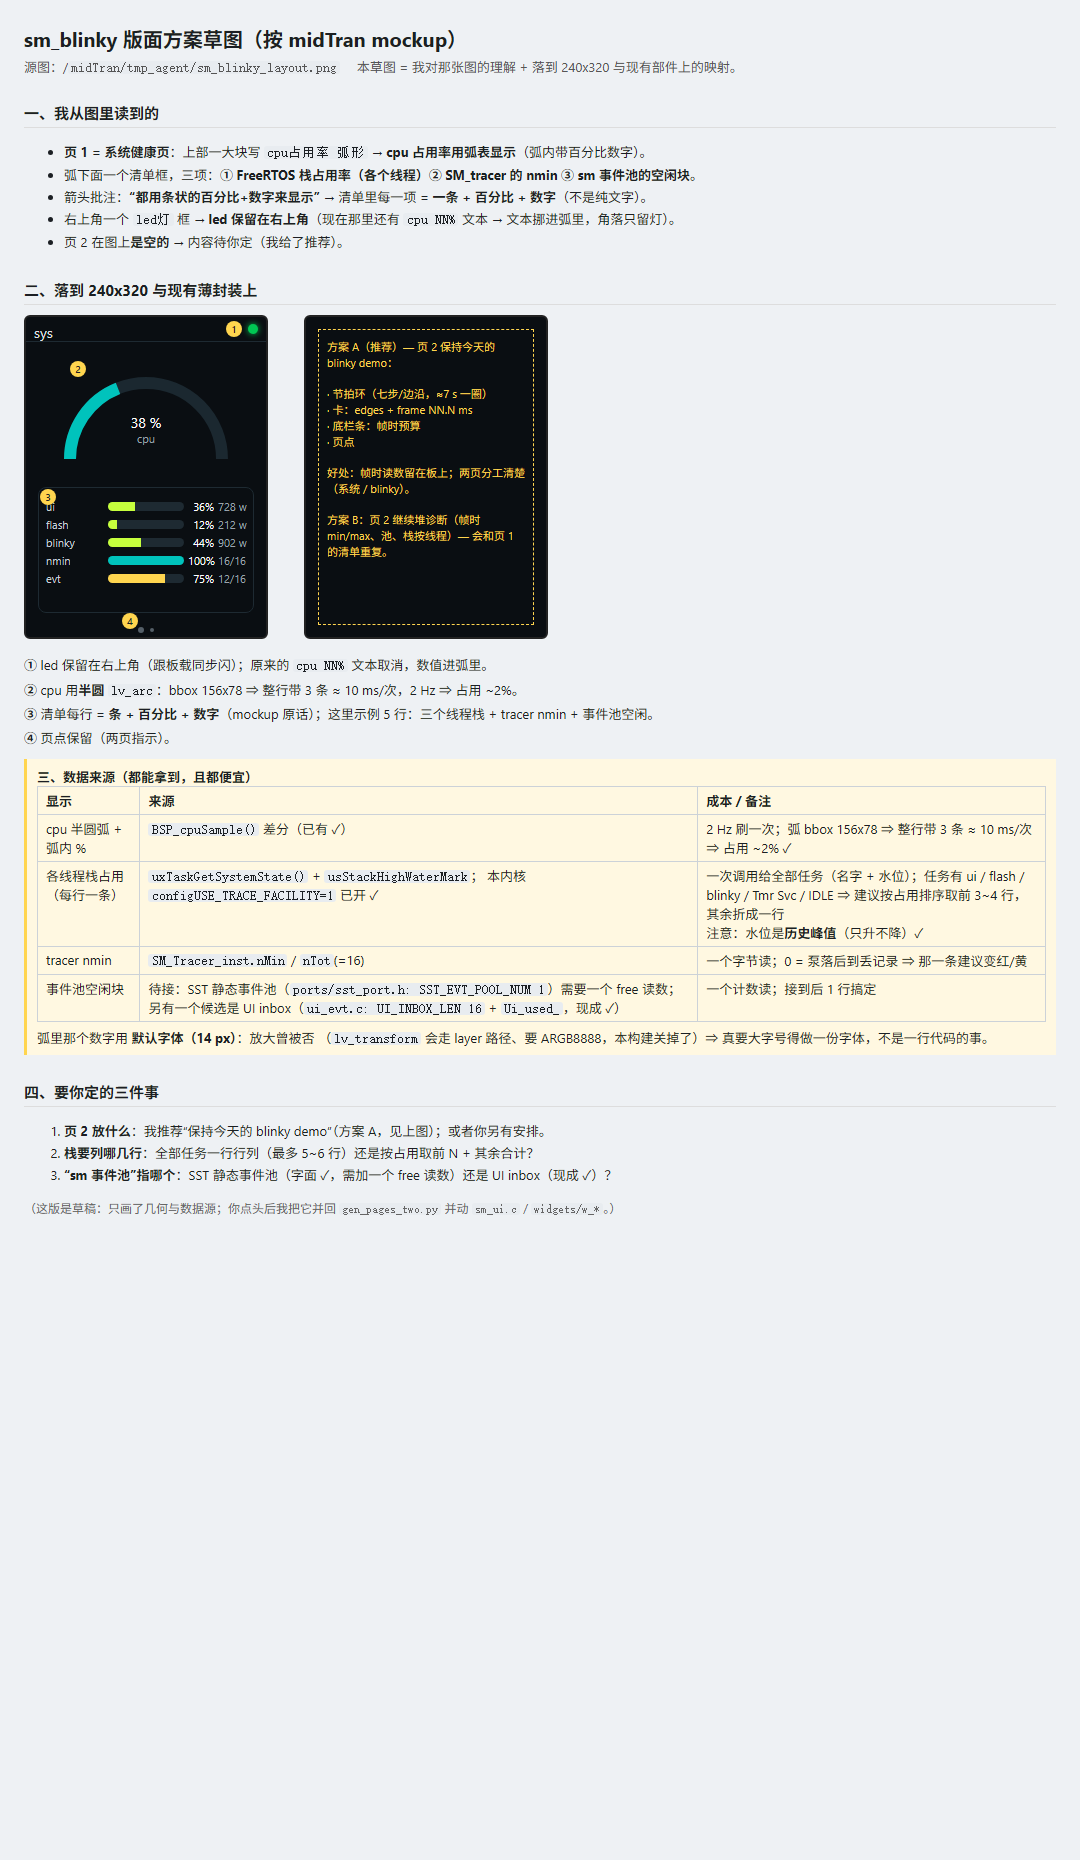
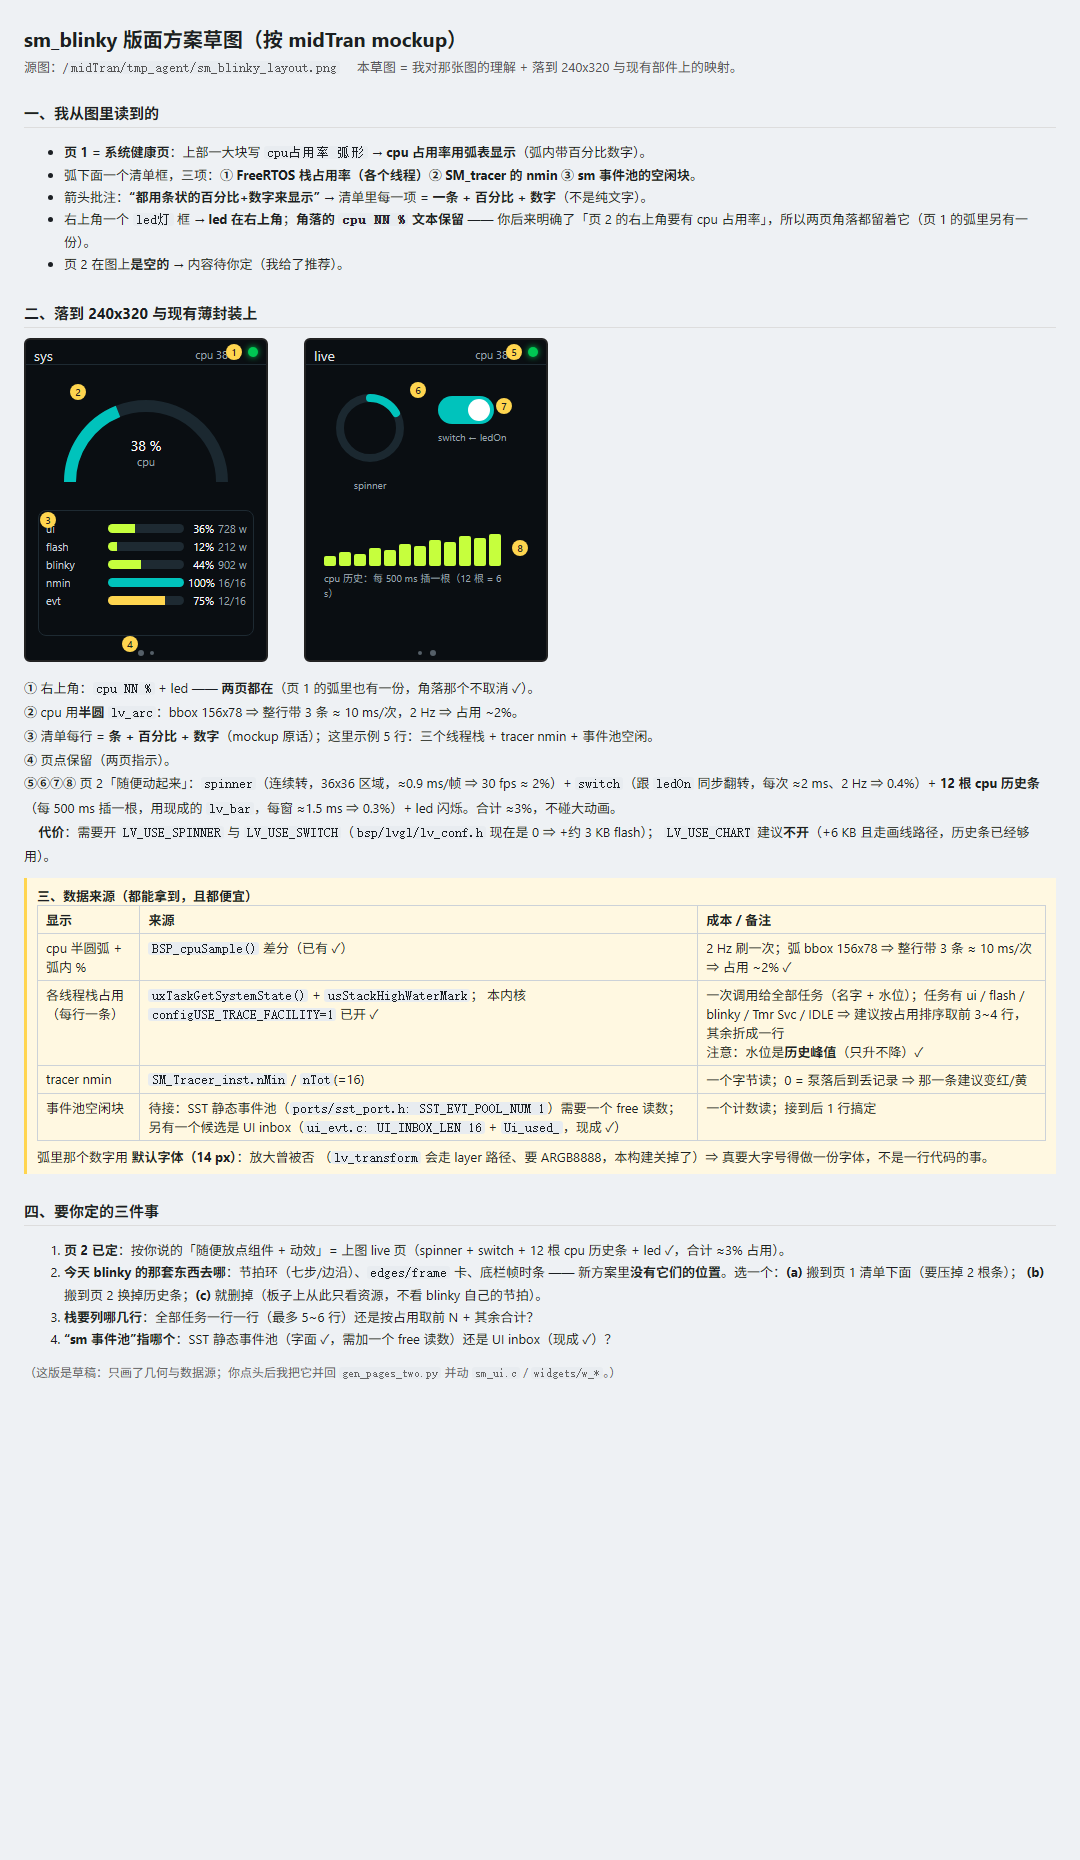
Sketch page 2 as the live page and keep the corner CPU readout on both

diff --git a/docs/diagrams/sketches/layout-next.html b/docs/diagrams/sketches/layout-next.html
@@ -43,17 +43,23 @@ code{background:#e8ecf0;padding:0 3px;border-radius:3px}
 <li><b>页 1 = 系统健康页</b>：上部一大块写 <code>cpu占用率 弧形</code> &rarr; <b>cpu 占用率用弧表显示</b>（弧内带百分比数字）。</li>
 <li>弧下面一个清单框，三项：<b>① FreeRTOS 栈占用率（各个线程）② SM_tracer 的 nmin ③ sm 事件池的空闲块</b>。</li>
 <li>箭头批注：<b>“都用条状的百分比+数字来显示”</b> &rarr; 清单里每一项 = <b>一条 + 百分比 + 数字</b>（不是纯文字）。</li>
-<li>右上角一个 <code>led灯</code> 框 &rarr; <b>led 保留在右上角</b>（现在那里还有 <code>cpu NN%</code> 文本 &rarr; 文本挪进弧里，角落只留灯）。</li>
+<li>右上角一个 <code>led灯</code> 框 &rarr; <b>led 在右上角</b>；<b>角落的 <code>cpu NN %</code> 文本保留</b> —— 你后来明确了「页 2 的右上角要有 cpu 占用率」，所以两页角落都留着它（页 1 的弧里另有一份）。</li>
 <li>页 2 在图上<b>是空的</b> &rarr; 内容待你定（我给了推荐）。</li>
 </ul>
 
 <h2>二、落到 240x320 与现有薄封装上</h2>
-<div class="panels"><div class="panel"><div class="cap">page 1 &middot; 系统健康（新）</div><div style="position:absolute;left:0;top:0;width:240px;height:24px;border-bottom:1px solid #1E2A32"></div><div style="position:absolute;left:8px;top:6px;color:#E0E4E8;font-size:14px">sys</div><div class="led" style="left:222px;top:7px"></div><div class="tagon" style="left:200px;top:4px">1</div><svg width="240" height="130" viewBox="0 0 240 130" style="position:absolute;left:0;top:26px"><path d="M 44.0 116.0 A 76 76 0 0 1 196.0 116.0" stroke="#1B2830" stroke-width="12" fill="none"/><path d="M 44.0 116.0 A 76 76 0 0 1 92.0 45.3" stroke="#00C3BC" stroke-width="12" fill="none"/></svg><div style="position:absolute;left:0;top:96px;width:240px;text-align:center;color:#fff;font-size:14px">38 %</div><div style="position:absolute;left:0;top:114px;width:240px;text-align:center;color:#9AA3AC;font-size:11px">cpu</div><div class="tagon" style="left:44px;top:44px">2</div><div class="solid" style="left:12px;top:170px;width:216px;height:126px"></div><div class="row" style="left:20px;top:180px"><span style="width:58px">ui</span><span class="track" style="width:76px"><span class="fill" style="width:36%;background:#C6FF3D"></span></span><span class="pct">36%</span><span class="raw">728 w</span></div><div class="row" style="left:20px;top:198px"><span style="width:58px">flash</span><span class="track" style="width:76px"><span class="fill" style="width:12%;background:#C6FF3D"></span></span><span class="pct">12%</span><span class="raw">212 w</span></div><div class="row" style="left:20px;top:216px"><span style="width:58px">blinky</span><span class="track" style="width:76px"><span class="fill" style="width:44%;background:#C6FF3D"></span></span><span class="pct">44%</span><span class="raw">902 w</span></div><div class="row" style="left:20px;top:234px"><span style="width:58px">nmin</span><span class="track" style="width:76px"><span class="fill" style="width:100%;background:#00C3BC"></span></span><span class="pct">100%</span><span class="raw">16/16</span></div><div class="row" style="left:20px;top:252px"><span style="width:58px">evt</span><span class="track" style="width:76px"><span class="fill" style="width:75%;background:#FFD54F"></span></span><span class="pct">75%</span><span class="raw">12/16</span></div><div class="tagon" style="left:14px;top:172px">3</div><div class="dot" style="left:112px;top:310px;width:6px;height:6px"></div><div class="dot" style="left:124px;top:311px;width:4px;height:4px"></div><div class="tagon" style="left:96px;top:296px">4</div></div><div class="panel"><div class="cap">page 2 &middot; 待定（图为空）</div><div class="box" style="left:12px;top:12px;width:216px;height:296px;border-color:#FFD54F;color:#FFD54F;padding:8px">方案 A（推荐）&mdash; 页 2 保持今天的 blinky demo：<br><br>&middot; 节拍环（七步/边沿，≈7 s 一圈）<br>&middot; 卡：edges + frame NN.N ms<br>&middot; 底栏条：帧时预算<br>&middot; 页点<br><br>好处：帧时读数留在板上；两页分工清楚（系统 / blinky）。<br><br>方案 B：页 2 继续堆诊断（帧时 min/max、池、栈按线程）&mdash; 会和页 1 的清单重复。</div></div></div>
+<div class="panels"><div class="panel"><div class="cap">page 1 &middot; 系统健康（新）</div><div style="position:absolute;left:0;top:0;width:240px;height:24px;border-bottom:1px solid #1E2A32"></div><div style="position:absolute;left:8px;top:6px;color:#E0E4E8;font-size:14px">sys</div><div class="led" style="left:222px;top:7px"></div><div style="position:absolute;left:0;top:7px;width:214px;text-align:right;color:#9AA3AC;font-size:11px">cpu 38 %</div><div class="tagon" style="left:200px;top:4px">1</div><svg width="240" height="130" viewBox="0 0 240 130" style="position:absolute;left:0;top:26px"><path d="M 44.0 116.0 A 76 76 0 0 1 196.0 116.0" stroke="#1B2830" stroke-width="12" fill="none"/><path d="M 44.0 116.0 A 76 76 0 0 1 92.0 45.3" stroke="#00C3BC" stroke-width="12" fill="none"/></svg><div style="position:absolute;left:0;top:96px;width:240px;text-align:center;color:#fff;font-size:14px">38 %</div><div style="position:absolute;left:0;top:114px;width:240px;text-align:center;color:#9AA3AC;font-size:11px">cpu</div><div class="tagon" style="left:44px;top:44px">2</div><div class="solid" style="left:12px;top:170px;width:216px;height:126px"></div><div class="row" style="left:20px;top:180px"><span style="width:58px">ui</span><span class="track" style="width:76px"><span class="fill" style="width:36%;background:#C6FF3D"></span></span><span class="pct">36%</span><span class="raw">728 w</span></div><div class="row" style="left:20px;top:198px"><span style="width:58px">flash</span><span class="track" style="width:76px"><span class="fill" style="width:12%;background:#C6FF3D"></span></span><span class="pct">12%</span><span class="raw">212 w</span></div><div class="row" style="left:20px;top:216px"><span style="width:58px">blinky</span><span class="track" style="width:76px"><span class="fill" style="width:44%;background:#C6FF3D"></span></span><span class="pct">44%</span><span class="raw">902 w</span></div><div class="row" style="left:20px;top:234px"><span style="width:58px">nmin</span><span class="track" style="width:76px"><span class="fill" style="width:100%;background:#00C3BC"></span></span><span class="pct">100%</span><span class="raw">16/16</span></div><div class="row" style="left:20px;top:252px"><span style="width:58px">evt</span><span class="track" style="width:76px"><span class="fill" style="width:75%;background:#FFD54F"></span></span><span class="pct">75%</span><span class="raw">12/16</span></div><div class="tagon" style="left:14px;top:172px">3</div><div class="dot" style="left:112px;top:310px;width:6px;height:6px"></div><div class="dot" style="left:124px;top:311px;width:4px;height:4px"></div><div class="tagon" style="left:96px;top:296px">4</div></div><div class="panel"><div class="cap">page 2 &middot; live（原图为空，内容我提案）</div><div style="position:absolute;left:0;top:0;width:240px;height:24px;border-bottom:1px solid #1E2A32"></div><div style="position:absolute;left:8px;top:6px;color:#E0E4E8;font-size:14px">live</div><div class="led" style="left:222px;top:7px"></div><div style="position:absolute;left:0;top:7px;width:214px;text-align:right;color:#9AA3AC;font-size:11px">cpu 38 %</div><div class="tagon" style="left:200px;top:4px">5</div><svg width="96" height="96" viewBox="0 0 96 96" style="position:absolute;left:16px;top:40px"><circle cx="48" cy="48" r="30" stroke="#1B2830" stroke-width="8" fill="none"/><path d="M 48 18 A 30 30 0 0 1 74 33" stroke="#00C3BC" stroke-width="8" fill="none" stroke-linecap="round"/></svg><div style="position:absolute;left:16px;top:138px;width:96px;text-align:center;color:#9AA3AC;font-size:10px">spinner</div><div class="tagon" style="left:104px;top:42px">6</div><div style="position:absolute;left:132px;top:56px;width:56px;height:28px;border-radius:14px;background:#00C3BC"></div><div style="position:absolute;left:162px;top:59px;width:22px;height:22px;border-radius:50%;background:#fff"></div><div style="position:absolute;left:132px;top:90px;width:88px;color:#9AA3AC;font-size:10px">switch &larr; ledOn</div><div class="tagon" style="left:190px;top:58px">7</div><div style="position:absolute;left:18px;top:216px;width:12px;height:10px;background:#C6FF3D;border-radius:2px"></div><div style="position:absolute;left:33px;top:212px;width:12px;height:14px;background:#C6FF3D;border-radius:2px"></div><div style="position:absolute;left:48px;top:214px;width:12px;height:12px;background:#C6FF3D;border-radius:2px"></div><div style="position:absolute;left:63px;top:208px;width:12px;height:18px;background:#C6FF3D;border-radius:2px"></div><div style="position:absolute;left:78px;top:210px;width:12px;height:16px;background:#C6FF3D;border-radius:2px"></div><div style="position:absolute;left:93px;top:204px;width:12px;height:22px;background:#C6FF3D;border-radius:2px"></div><div style="position:absolute;left:108px;top:206px;width:12px;height:20px;background:#C6FF3D;border-radius:2px"></div><div style="position:absolute;left:123px;top:200px;width:12px;height:26px;background:#C6FF3D;border-radius:2px"></div><div style="position:absolute;left:138px;top:202px;width:12px;height:24px;background:#C6FF3D;border-radius:2px"></div><div style="position:absolute;left:153px;top:196px;width:12px;height:30px;background:#C6FF3D;border-radius:2px"></div><div style="position:absolute;left:168px;top:198px;width:12px;height:28px;background:#C6FF3D;border-radius:2px"></div><div style="position:absolute;left:183px;top:194px;width:12px;height:32px;background:#C6FF3D;border-radius:2px"></div><div style="position:absolute;left:18px;top:230px;width:186px;color:#9AA3AC;font-size:10px">cpu 历史：每 500 ms 插一根（12 根 = 6 s）</div><div class="tagon" style="left:206px;top:200px">8</div><div class="dot" style="left:112px;top:311px;width:4px;height:4px"></div><div class="dot" style="left:124px;top:310px;width:6px;height:6px"></div></div></div>
 <div style="font-size:13px;line-height:1.8;margin-top:14px">
-<b>①</b> led 保留在右上角（跟板载同步闪）；原来的 <code>cpu NN%</code> 文本取消，数值进弧里。<br>
+<b>①</b> 右上角：<code>cpu NN %</code> + led —— <b>两页都在</b>（页 1 的弧里也有一份，角落那个不取消 ✓）。<br>
 <b>②</b> cpu 用<b>半圆</b> <code>lv_arc</code>：bbox 156x78 &rArr; 整行带 3 条 &asymp; 10 ms/次，2 Hz &rArr; 占用 ~2%。<br>
 <b>③</b> 清单每行 = <b>条 + 百分比 + 数字</b>（mockup 原话）；这里示例 5 行：三个线程栈 + tracer nmin + 事件池空闲。<br>
-<b>④</b> 页点保留（两页指示）。
+<b>④</b> 页点保留（两页指示）。<br>
+<b>⑤⑥⑦⑧</b> 页 2「随便动起来」：<code>spinner</code>（连续转，36x36 区域，&asymp;0.9 ms/帧 &rArr; 30 fps &asymp; 2%）+
+ <code>switch</code>（跟 <code>ledOn</code> 同步翻转，每次 &asymp;2 ms、2 Hz &rArr; 0.4%）+
+ <b>12 根 cpu 历史条</b>（每 500 ms 插一根，用现成的 <code>lv_bar</code>，每窗 &asymp;1.5 ms &rArr; 0.3%）+
+ led 闪烁。合计 &asymp;3%，不碰大动画。<br>
+&nbsp;&nbsp;&nbsp;&nbsp;<b>代价</b>：需要开 <code>LV_USE_SPINNER</code> 与 <code>LV_USE_SWITCH</code>（<code>bsp/lvgl/lv_conf.h</code> 现在是 0 ⇒ +约 3 KB flash）；
+ <code>LV_USE_CHART</code> 建议<b>不开</b>（+6 KB 且走画线路径，历史条已经够用）。
 </div>
 
 <div class="note"><b>三、数据来源（都能拿到，且都便宜）</b>
@@ -80,8 +86,11 @@ code{background:#e8ecf0;padding:0 3px;border-radius:3px}
 
 <h2>四、要你定的三件事</h2>
 <ol style="font-size:13px;line-height:1.7">
-<li><b>页 2 放什么</b>：我推荐“保持今天的 blinky demo”（方案 A，见上图）；或者你另有安排。</li>
-<li><b>栈要列哪几行</b>：全部任务一行行列（最多 5~6 行）还是按占用取前 N + 其余合计？</li>
+<li><b>页 2 已定</b>：按你说的「随便放点组件 + 动效」= 上图 live 页（spinner + switch + 12 根 cpu 历史条 + led ✓，合计 &asymp;3% 占用）。</li>
+<li><b>今天 blinky 的那套东西去哪</b>：节拍环（七步/边沿）、<code>edges/frame</code> 卡、底栏帧时条 ——
+ 新方案里<b>没有它们的位置</b>。选一个：<b>(a)</b> 搬到页 1 清单下面（要压掉 2 根条）；
+ <b>(b)</b> 搬到页 2 换掉历史条；<b>(c)</b> 就删掉（板子上从此只看资源，不看 blinky 自己的节拍）。</li>
+<li><b>栈要列哪几行</b>：全部任务一行一行（最多 5~6 行）还是按占用取前 N + 其余合计？</li>
 <li><b>“sm 事件池”指哪个</b>：SST 静态事件池（字面 ✓，需加一个 free 读数）还是 UI inbox（现成 ✓）？</li>
 </ol>
 <div style="font-size:12px;color:#666">（这版是草稿：只画了几何与数据源；你点头后我把它并回

diff --git a/docs/diagrams/sketches/gen_layout_next.py b/docs/diagrams/sketches/gen_layout_next.py
@@ -94,6 +94,8 @@ def page1():
     o.append('<div style="position:absolute;left:8px;top:6px;color:#E0E4E8;'
              'font-size:14px">sys</div>')
     o.append('<div class="led" style="left:222px;top:7px"></div>')
+    o.append('<div style="position:absolute;left:0;top:7px;width:214px;'
+             'text-align:right;color:#9AA3AC;font-size:11px">cpu 38 %</div>')
     o.append(tagon(200, 4, "1"))
     o.append(gauge(0.38, "38 %", "cpu"))
     o.append(tagon(44, 44, "2"))
@@ -113,17 +115,44 @@ def page1():
 
 
 def page2():
-    o = ['<div class="panel"><div class="cap">page 2 &middot; 待定（图为空）</div>']
-    o.append('<div class="box" style="left:12px;top:12px;width:216px;height:296px;'
-             'border-color:#FFD54F;color:#FFD54F;padding:8px">'
-             '方案 A（推荐）&mdash; 页 2 保持今天的 blinky demo：<br><br>'
-             '&middot; 节拍环（七步/边沿，≈7 s 一圈）<br>'
-             '&middot; 卡：edges + frame NN.N ms<br>'
-             '&middot; 底栏条：帧时预算<br>'
-             '&middot; 页点<br><br>'
-             '好处：帧时读数留在板上；两页分工清楚（系统 / blinky）。<br><br>'
-             '方案 B：页 2 继续堆诊断（帧时 min/max、池、栈按线程）'
-             '&mdash; 会和页 1 的清单重复。</div>')
+    o = ['<div class="panel"><div class="cap">page 2 &middot; live（原图为空，内容我提案）</div>']
+    o.append('<div style="position:absolute;left:0;top:0;width:240px;height:24px;'
+             'border-bottom:1px solid #1E2A32"></div>')
+    o.append('<div style="position:absolute;left:8px;top:6px;color:#E0E4E8;'
+             'font-size:14px">live</div>')
+    o.append('<div class="led" style="left:222px;top:7px"></div>')
+    o.append('<div style="position:absolute;left:0;top:7px;width:214px;'
+             'text-align:right;color:#9AA3AC;font-size:11px">cpu 38 %</div>')
+    o.append(tagon(200, 4, "5"))
+    # spinner: a ring with a gap
+    o.append('<svg width="96" height="96" viewBox="0 0 96 96" '
+             'style="position:absolute;left:16px;top:40px">'
+             '<circle cx="48" cy="48" r="30" stroke="#1B2830" stroke-width="8" '
+             'fill="none"/>'
+             '<path d="M 48 18 A 30 30 0 0 1 74 33" stroke="#00C3BC" '
+             'stroke-width="8" fill="none" stroke-linecap="round"/></svg>')
+    o.append('<div style="position:absolute;left:16px;top:138px;width:96px;'
+             'text-align:center;color:#9AA3AC;font-size:10px">spinner</div>')
+    o.append(tagon(104, 42, "6"))
+    # switch: track + knob, driven by ledOn
+    o.append('<div style="position:absolute;left:132px;top:56px;width:56px;'
+             'height:28px;border-radius:14px;background:#00C3BC"></div>')
+    o.append('<div style="position:absolute;left:162px;top:59px;width:22px;'
+             'height:22px;border-radius:50%;background:#fff"></div>')
+    o.append('<div style="position:absolute;left:132px;top:90px;width:88px;'
+             'color:#9AA3AC;font-size:10px">switch &larr; ledOn</div>')
+    o.append(tagon(190, 58, "7"))
+    # cpu history: 12 bars, one per 500 ms window
+    heights = [10, 14, 12, 18, 16, 22, 20, 26, 24, 30, 28, 32]
+    for i, h in enumerate(heights):
+        o.append('<div style="position:absolute;left:%dpx;top:%dpx;width:12px;'
+                 'height:%dpx;background:#C6FF3D;border-radius:2px"></div>'
+                 % (18 + i * 15, 226 - h, h))
+    o.append('<div style="position:absolute;left:18px;top:230px;width:186px;'
+             'color:#9AA3AC;font-size:10px">cpu 历史：每 500 ms 插一根（12 根 = 6 s）</div>')
+    o.append(tagon(206, 200, "8"))
+    o.append('<div class="dot" style="left:112px;top:311px;width:4px;height:4px"></div>')
+    o.append('<div class="dot" style="left:124px;top:310px;width:6px;height:6px"></div>')
     o.append('</div>')
     return "".join(o)
 
@@ -141,17 +170,23 @@ HTML = """<!DOCTYPE html>
 <li><b>页 1 = 系统健康页</b>：上部一大块写 <code>cpu占用率 弧形</code> &rarr; <b>cpu 占用率用弧表显示</b>（弧内带百分比数字）。</li>
 <li>弧下面一个清单框，三项：<b>① FreeRTOS 栈占用率（各个线程）② SM_tracer 的 nmin ③ sm 事件池的空闲块</b>。</li>
 <li>箭头批注：<b>“都用条状的百分比+数字来显示”</b> &rarr; 清单里每一项 = <b>一条 + 百分比 + 数字</b>（不是纯文字）。</li>
-<li>右上角一个 <code>led灯</code> 框 &rarr; <b>led 保留在右上角</b>（现在那里还有 <code>cpu NN%</code> 文本 &rarr; 文本挪进弧里，角落只留灯）。</li>
+<li>右上角一个 <code>led灯</code> 框 &rarr; <b>led 在右上角</b>；<b>角落的 <code>cpu NN %</code> 文本保留</b> —— 你后来明确了「页 2 的右上角要有 cpu 占用率」，所以两页角落都留着它（页 1 的弧里另有一份）。</li>
 <li>页 2 在图上<b>是空的</b> &rarr; 内容待你定（我给了推荐）。</li>
 </ul>
 
 <h2>二、落到 240x320 与现有薄封装上</h2>
 <div class="panels">@P1@@P2@</div>
 <div style="font-size:13px;line-height:1.8;margin-top:14px">
-<b>①</b> led 保留在右上角（跟板载同步闪）；原来的 <code>cpu NN%</code> 文本取消，数值进弧里。<br>
+<b>①</b> 右上角：<code>cpu NN %</code> + led —— <b>两页都在</b>（页 1 的弧里也有一份，角落那个不取消 ✓）。<br>
 <b>②</b> cpu 用<b>半圆</b> <code>lv_arc</code>：bbox 156x78 &rArr; 整行带 3 条 &asymp; 10 ms/次，2 Hz &rArr; 占用 ~2%。<br>
 <b>③</b> 清单每行 = <b>条 + 百分比 + 数字</b>（mockup 原话）；这里示例 5 行：三个线程栈 + tracer nmin + 事件池空闲。<br>
-<b>④</b> 页点保留（两页指示）。
+<b>④</b> 页点保留（两页指示）。<br>
+<b>⑤⑥⑦⑧</b> 页 2「随便动起来」：<code>spinner</code>（连续转，36x36 区域，&asymp;0.9 ms/帧 &rArr; 30 fps &asymp; 2%）+
+ <code>switch</code>（跟 <code>ledOn</code> 同步翻转，每次 &asymp;2 ms、2 Hz &rArr; 0.4%）+
+ <b>12 根 cpu 历史条</b>（每 500 ms 插一根，用现成的 <code>lv_bar</code>，每窗 &asymp;1.5 ms &rArr; 0.3%）+
+ led 闪烁。合计 &asymp;3%，不碰大动画。<br>
+&nbsp;&nbsp;&nbsp;&nbsp;<b>代价</b>：需要开 <code>LV_USE_SPINNER</code> 与 <code>LV_USE_SWITCH</code>（<code>bsp/lvgl/lv_conf.h</code> 现在是 0 ⇒ +约 3 KB flash）；
+ <code>LV_USE_CHART</code> 建议<b>不开</b>（+6 KB 且走画线路径，历史条已经够用）。
 </div>
 
 <div class="note"><b>三、数据来源（都能拿到，且都便宜）</b>
@@ -178,8 +213,11 @@ HTML = """<!DOCTYPE html>
 
 <h2>四、要你定的三件事</h2>
 <ol style="font-size:13px;line-height:1.7">
-<li><b>页 2 放什么</b>：我推荐“保持今天的 blinky demo”（方案 A，见上图）；或者你另有安排。</li>
-<li><b>栈要列哪几行</b>：全部任务一行行列（最多 5~6 行）还是按占用取前 N + 其余合计？</li>
+<li><b>页 2 已定</b>：按你说的「随便放点组件 + 动效」= 上图 live 页（spinner + switch + 12 根 cpu 历史条 + led ✓，合计 &asymp;3% 占用）。</li>
+<li><b>今天 blinky 的那套东西去哪</b>：节拍环（七步/边沿）、<code>edges/frame</code> 卡、底栏帧时条 ——
+ 新方案里<b>没有它们的位置</b>。选一个：<b>(a)</b> 搬到页 1 清单下面（要压掉 2 根条）；
+ <b>(b)</b> 搬到页 2 换掉历史条；<b>(c)</b> 就删掉（板子上从此只看资源，不看 blinky 自己的节拍）。</li>
+<li><b>栈要列哪几行</b>：全部任务一行一行（最多 5~6 行）还是按占用取前 N + 其余合计？</li>
 <li><b>“sm 事件池”指哪个</b>：SST 静态事件池（字面 ✓，需加一个 free 读数）还是 UI inbox（现成 ✓）？</li>
 </ol>
 <div style="font-size:12px;color:#666">（这版是草稿：只画了几何与数据源；你点头后我把它并回
